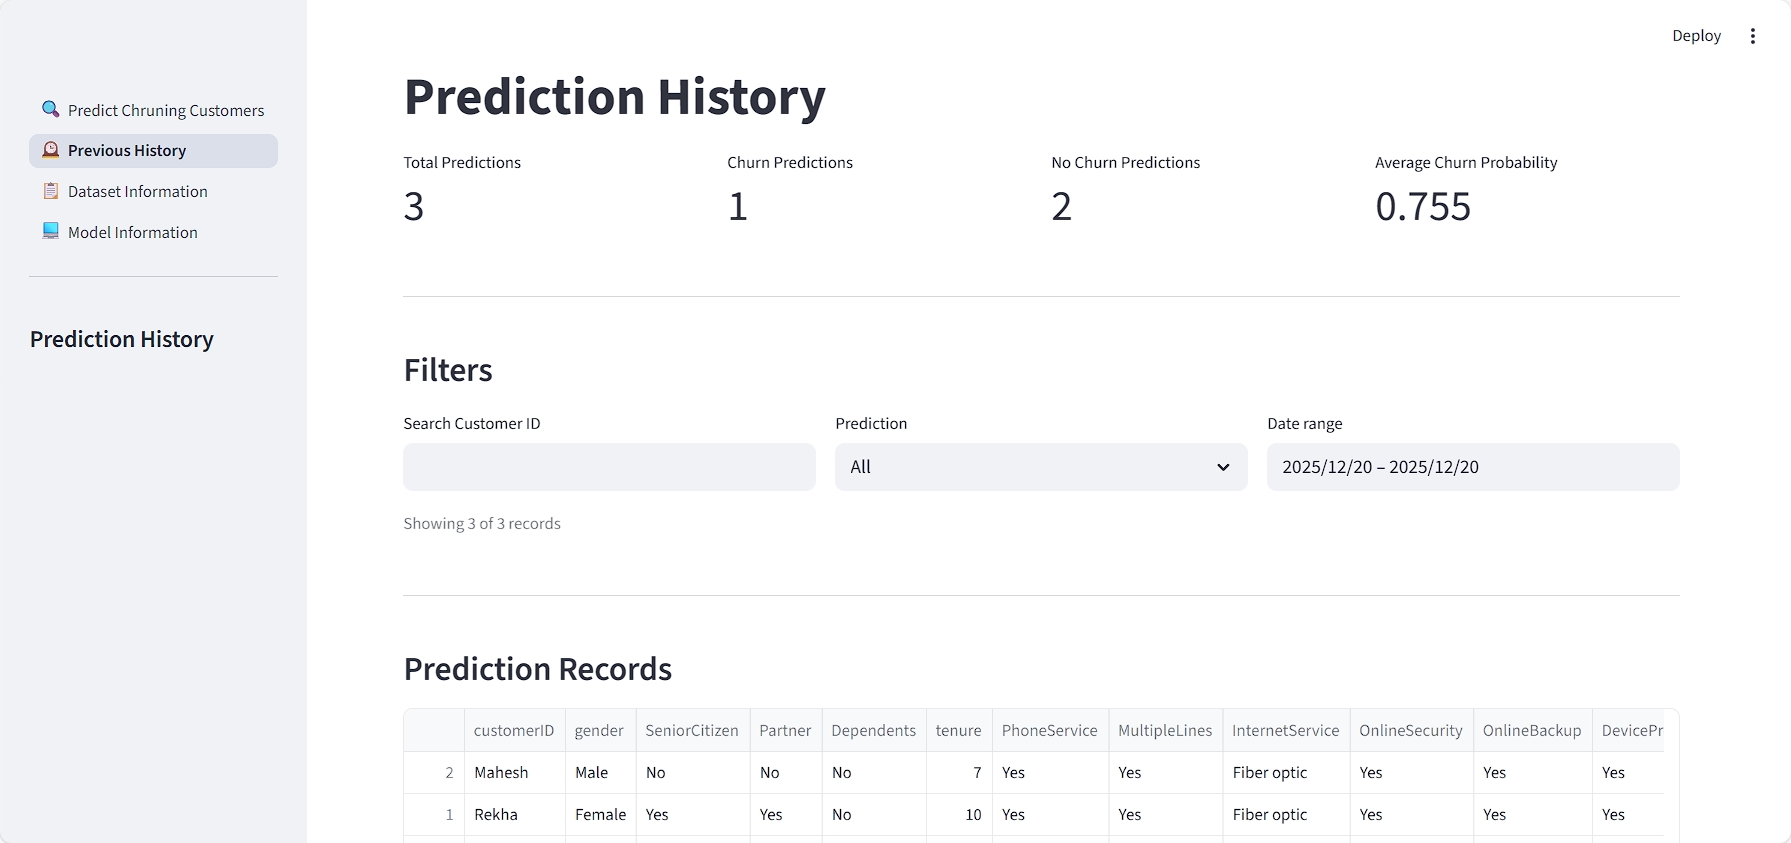
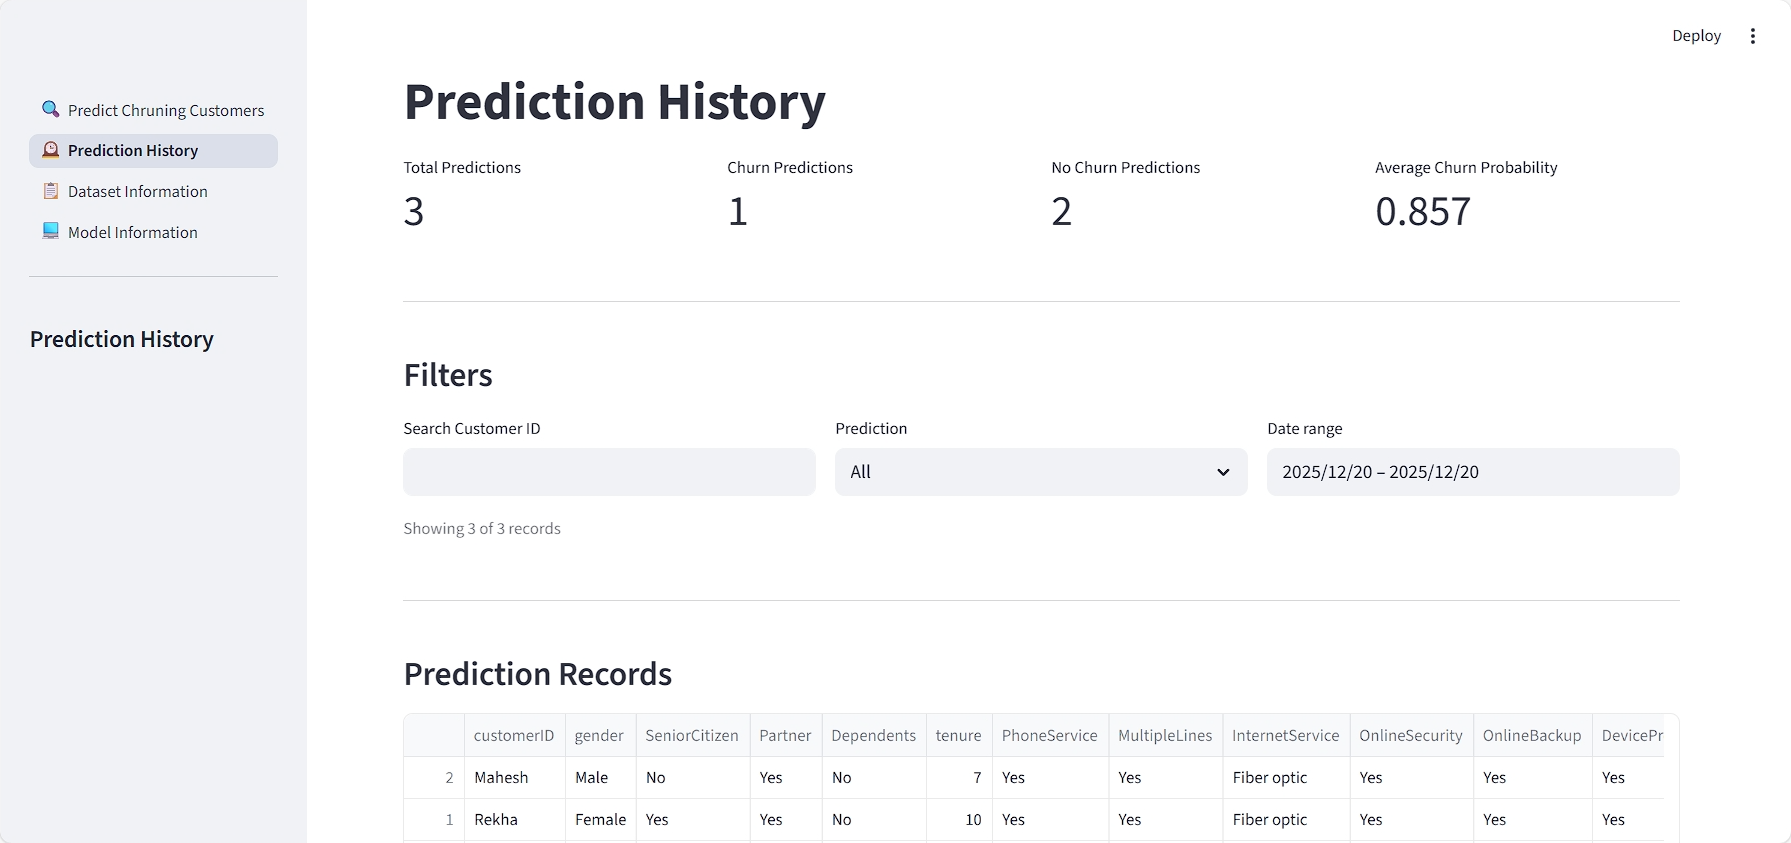
Fixed minor bugs.

diff --git a/app/app.py b/app/app.py
@@ -1,7 +1,7 @@
 import streamlit as st
 
 mainpage = st.Page("mainpage.py", title = "Predict Chruning Customers", icon = "🔍")
-history_view = st.Page("history.py", title = "Previous History", icon = "🕰")
+history_view = st.Page("history.py", title = "Prediction History", icon = "🕰")
 data_view = st.Page("dataset.py", title = "Dataset Information", icon = "📋")
 model_view = st.Page("model_info.py", title = "Model Information", icon = "💻")
 pg = st.navigation([mainpage, history_view, data_view, model_view])
